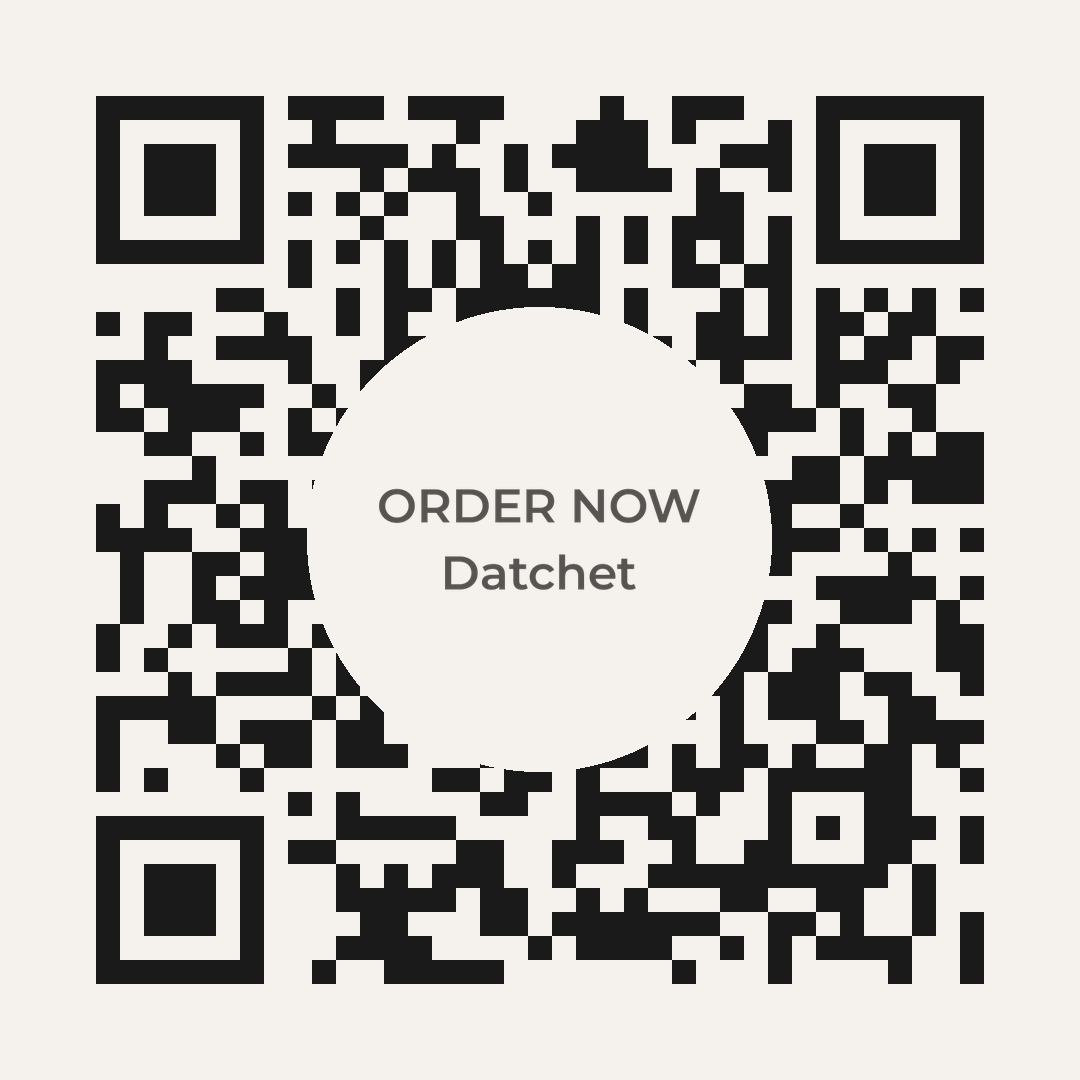
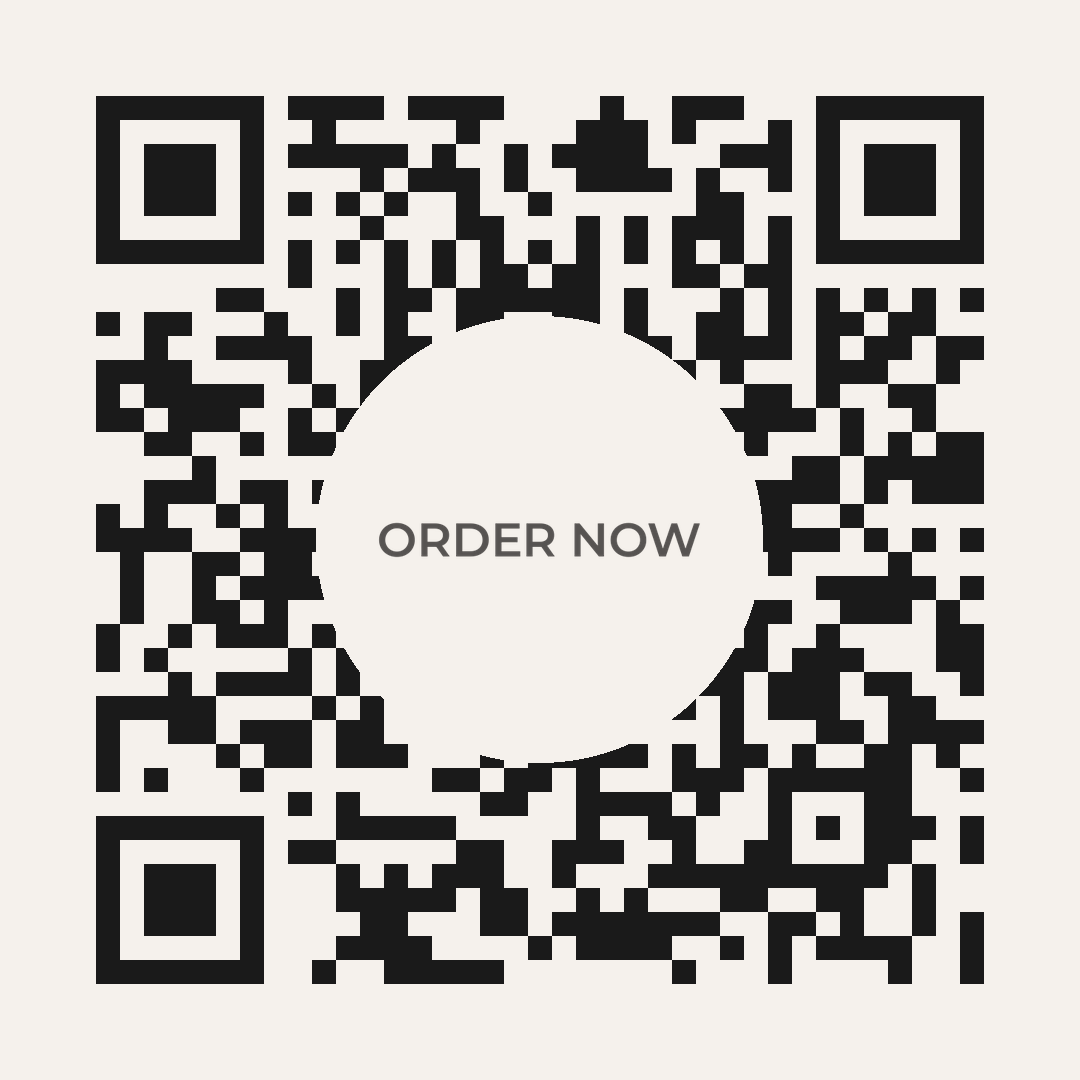
qr: Order Now codes show just 'ORDER NOW' (drop store name from centre)

diff --git a/qr/generate-all.py b/qr/generate-all.py
@@ -50,9 +50,9 @@ STANDS = [
 # Centre-text codes: "ORDER NOW" + store on the centre plate INSTEAD of the logo
 # (new style 2026-06-19). Circular, same stable /qr/<store> handles as the order codes.
 TEXTSET = [
-    ("order-now-beaconsfield", QR + "/beaconsfield", ["ORDER NOW", "Beaconsfield"]),
-    ("order-now-reading",      QR + "/reading",      ["ORDER NOW", "Reading"]),
-    ("order-now-datchet",      QR + "/datchet",      ["ORDER NOW", "Datchet"]),
+    ("order-now-beaconsfield", QR + "/beaconsfield", ["ORDER NOW"]),
+    ("order-now-reading",      QR + "/reading",      ["ORDER NOW"]),
+    ("order-now-datchet",      QR + "/datchet",      ["ORDER NOW"]),
 ]
 
 if __name__ == "__main__":
